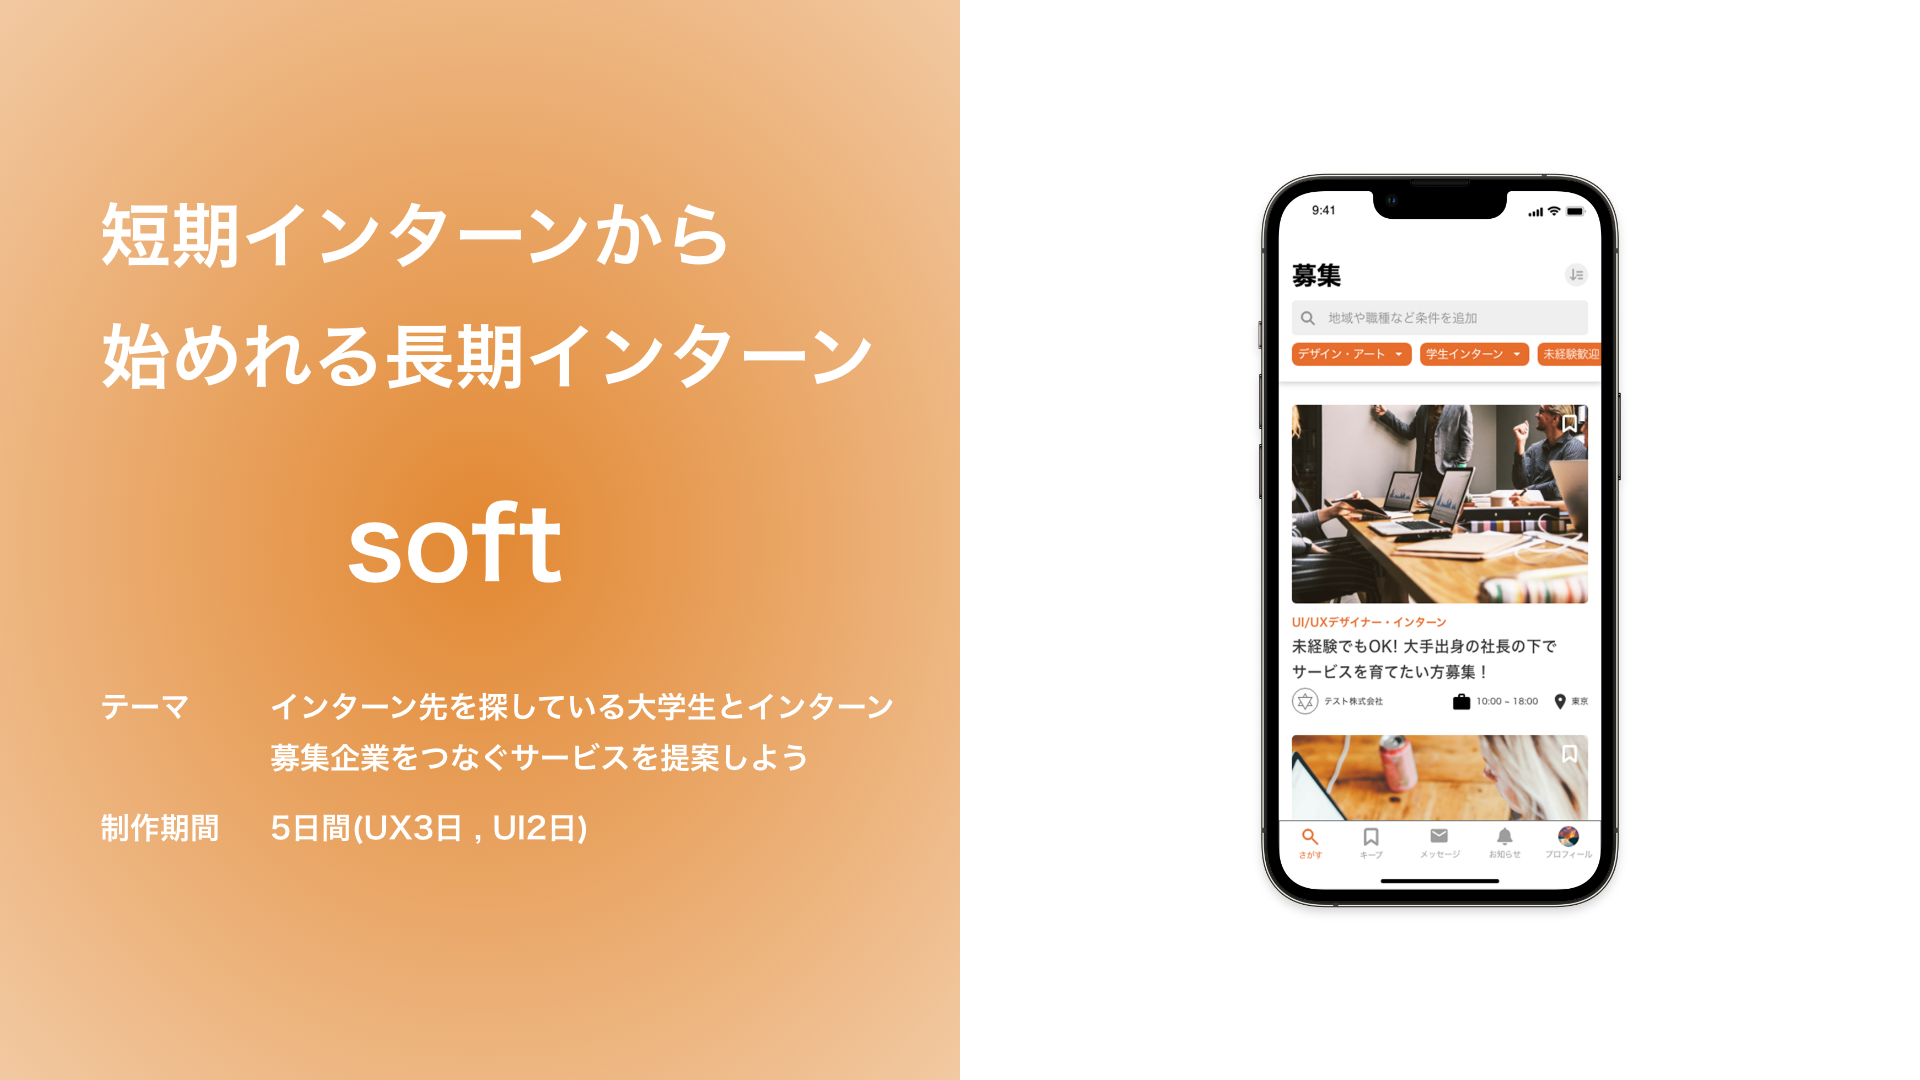
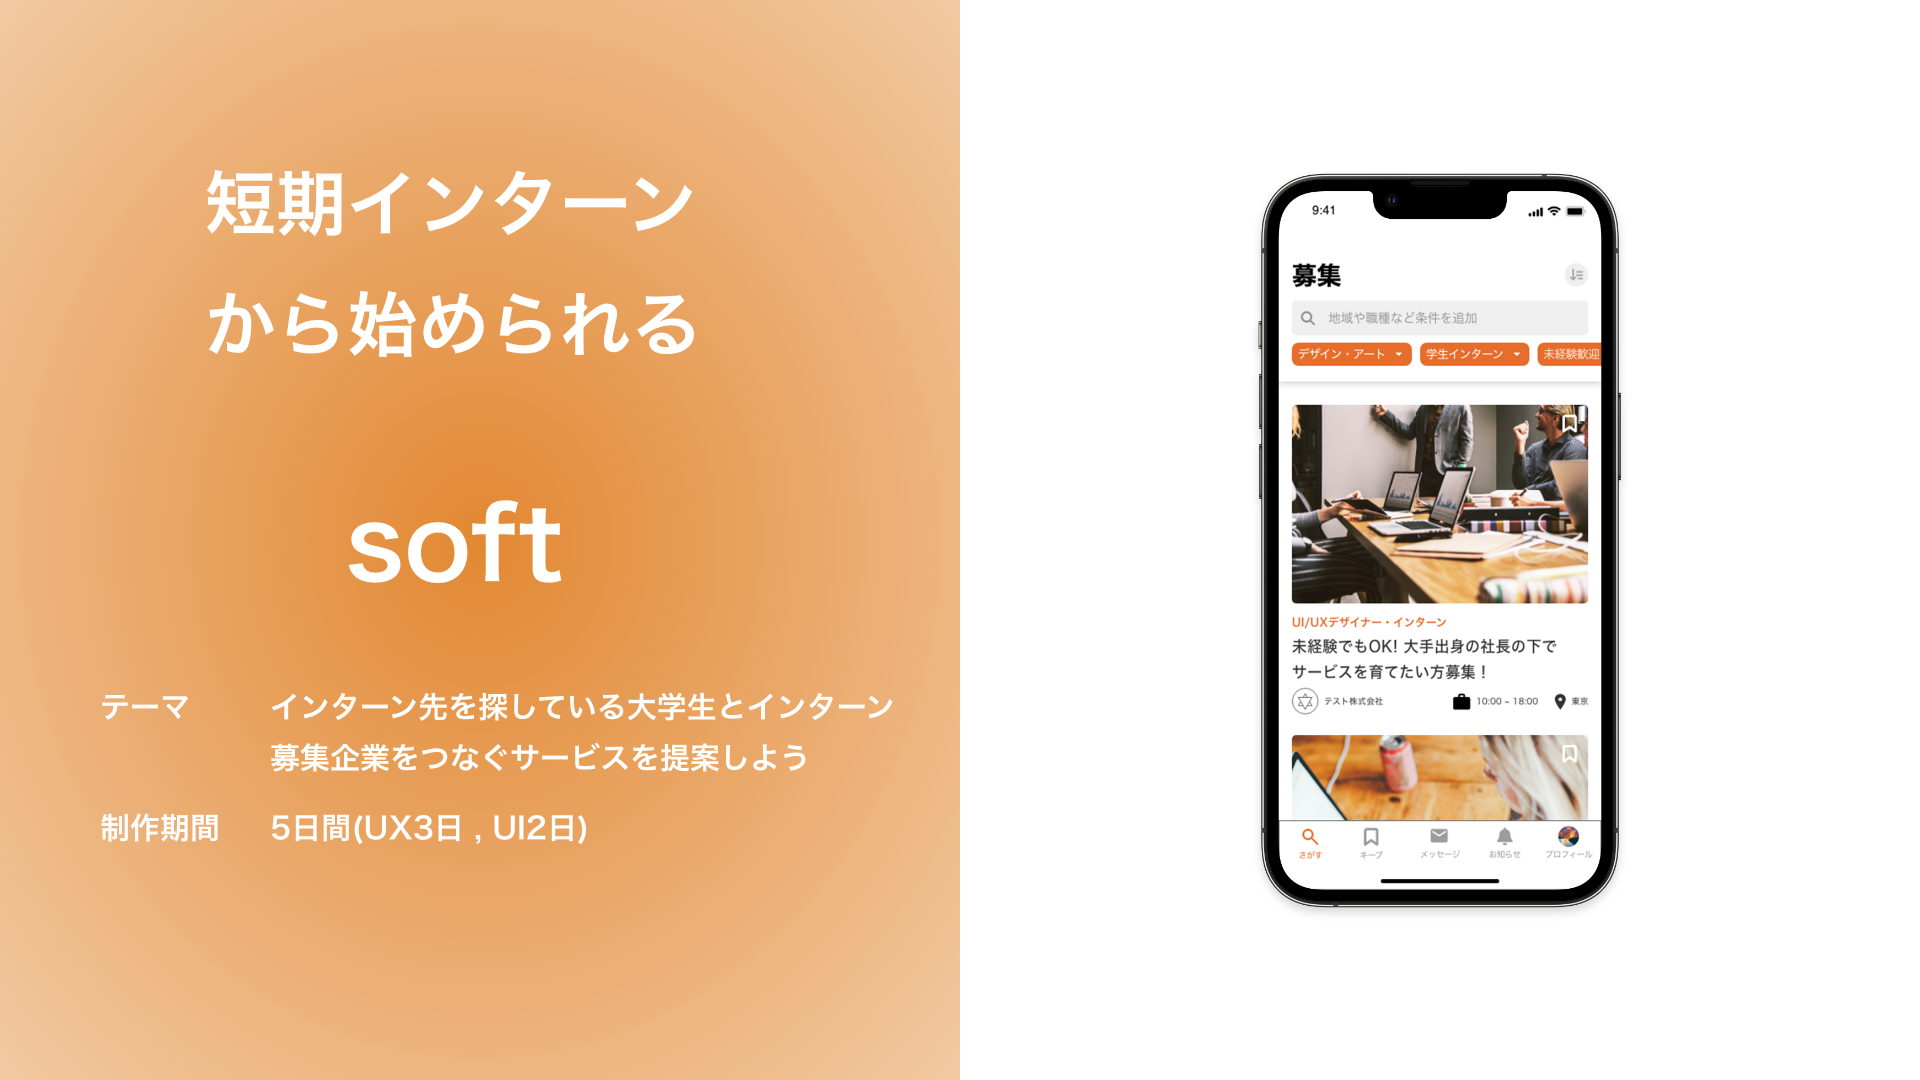
画像修正

Changed region(s): [[0.0312, 0.275, 0.4688, 0.3667], [0.0312, 0.1528, 0.375, 0.2444]]

diff --git a/work03.html b/work03.html
@@ -74,7 +74,7 @@
                         <p>
                             いきなり長期インターンは怖くないですか？
                             学生の問題に着目し、学生のインターンに対する
-                            不安を軽減して長期インターンに移行する事が
+                            不安を軽減して長期インターンを目指す事が
                             出来るようなサービスです。
                         </p>
                         <h3>プロトタイプ</h3>

diff --git a/index.html b/index.html
@@ -129,7 +129,7 @@
 
                     <div class="work_box">
                         <div class="work_best">
-                            <h3>短期インターンから<br>始めれる長期インターン</h3>
+                            <h3>短期インターンから始められる</h3>
                             <h2 class="work1_title">soft</h2>
                             <div class="btn_more">
                                 <a href="work03.html" class="btn_w btn_w--orange">もっと詳しく</a>
